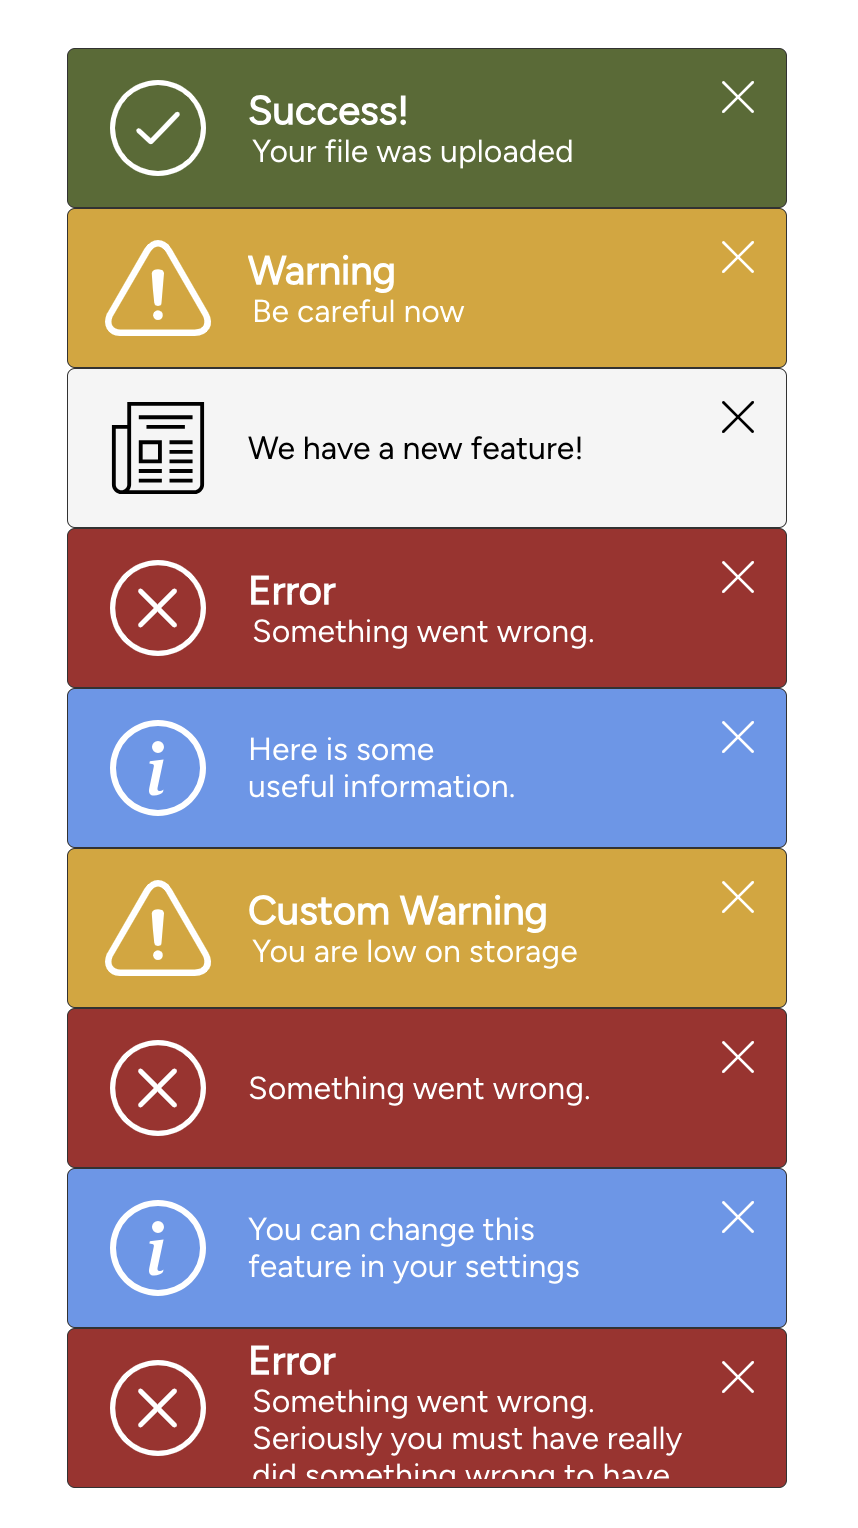
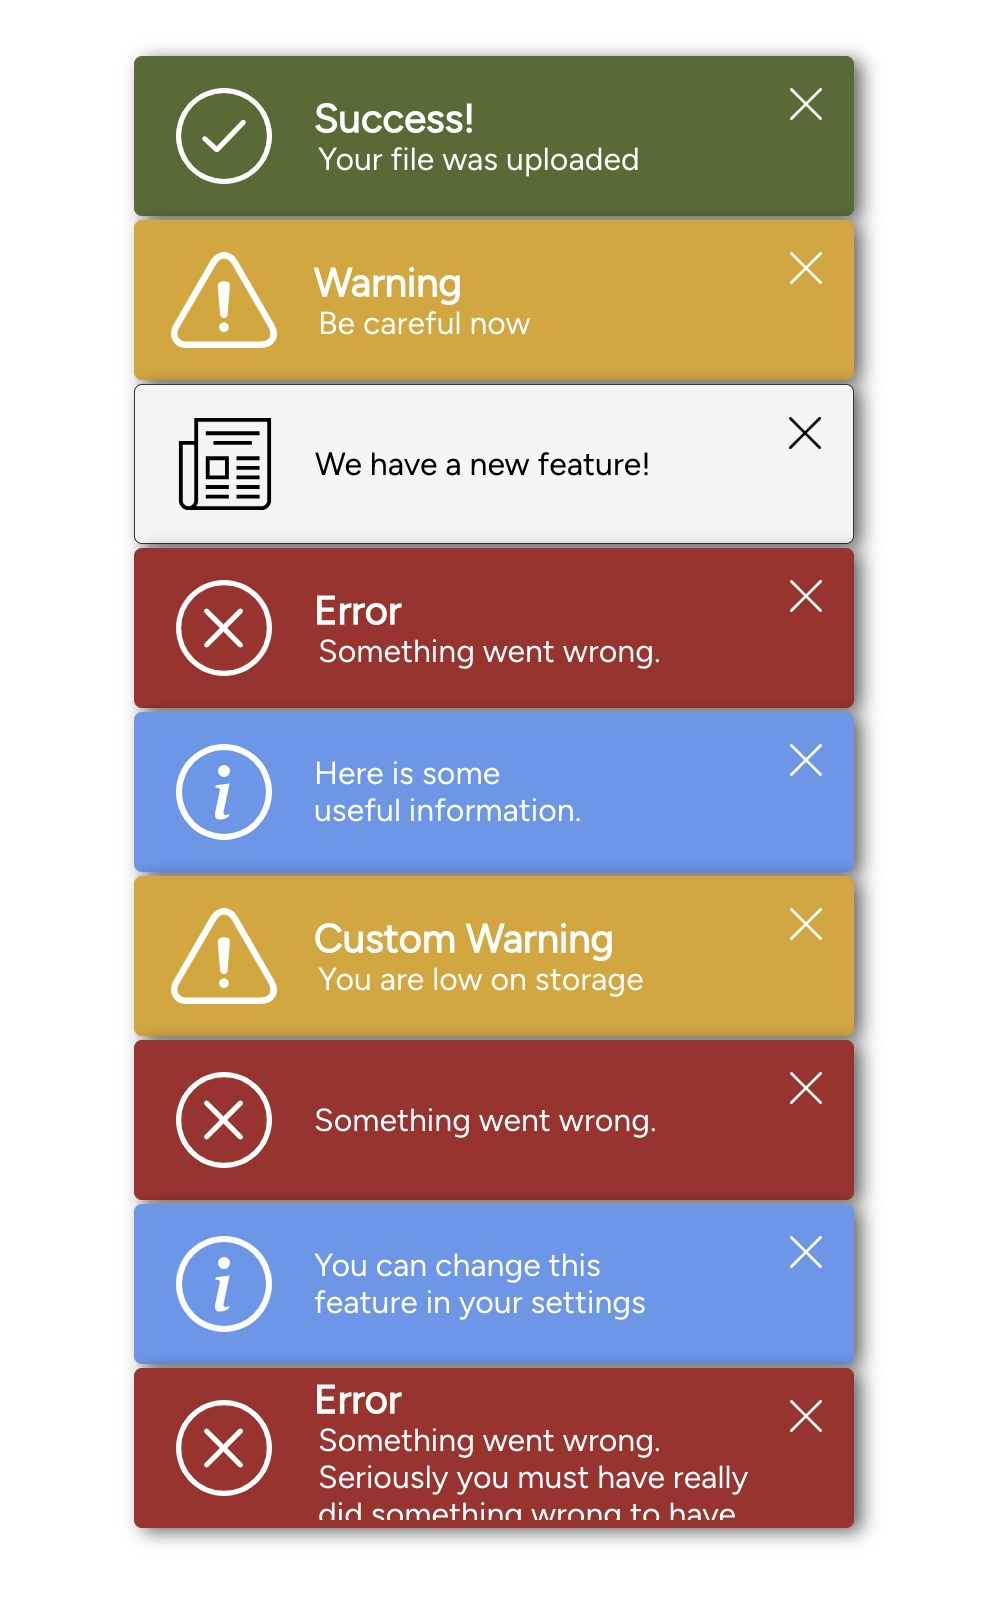
Toastify
adapted my toast component into toastify

Changed region(s): [[0.0606, 0.0308, 0.9394, 0.9843]]

diff --git a/Toastify/createToast.tsx b/Toastify/createToast.tsx
@@ -1,0 +1,49 @@
+import ToastComponent from "@/app/ui/Toast/toast";
+import { toast } from "react-toastify";
+
+/*
+ *   type - the type of message being sent (come in different color schemes)
+ *   message - the message on the toast
+ *   closeFunction - a function the closes the toast, typically used by toastify
+ *   title - optional title that overrides our default titles, leave as undefined otherwise
+ *   autoClose - toast will autoClose after the duration expire
+ *   duration - the time in ms before toast autoCloses
+ */
+function createToast(
+  type: "success" | "warning" | "error" | "info" | "news",
+  message: string,
+  title?: string,
+  autoClose = true,
+  duration = 5000
+) {
+  toast(
+    ({ closeToast }) => (
+      <ToastComponent
+        type={type}
+        message={message}
+        title={title}
+        autoClose={false}
+        closeFunction={closeToast}
+      />
+    ),
+    {
+      autoClose: autoClose ? duration : false,
+      closeOnClick: false,
+      pauseOnHover: true,
+      draggable: false,
+      hideProgressBar: true,
+      closeButton: false,
+      style: {
+        width: "max-content",
+        height: "max-content",
+        boxShadow: "none",
+        padding: "0",
+        margin: "0",
+        background: "none",
+      },
+      position: "bottom-center",
+    }
+  );
+}
+
+export { createToast };

diff --git a/Toastify/(toast)/(toast layout)/toastifyTest/someButtons.tsx b/Toastify/(toast)/(toast layout)/toastifyTest/someButtons.tsx
@@ -1,0 +1,46 @@
+"use client";
+import React, { useState, useEffect, useRef, useCallback } from "react";
+import Image from "next/image";
+import Link from "next/link";
+import Button from "@/app/ui/Buttons/Button Set 1/button";
+import { createToast } from "@/app/functions/createToast";
+
+export default function Component() {
+  return (
+    <div
+      style={{
+        display: "flex",
+        flexDirection: "column",
+        rowGap: ".6rem",
+      }}
+    >
+      <Button
+        type="primary"
+        text="Add Success Toast"
+        onClick={() => createToast("success", "A toast! Cheers!")}
+        style={{backgroundColor: "darkolivegreen"}}
+      />
+      <Button
+        type="primary"
+        text="Add Warning"
+        onClick={() => {
+          createToast(
+            "warning",
+            "This toast won't go away on its own.",
+            undefined,
+            false
+          );
+        }}
+        style={{backgroundColor: "goldenrod"}}
+      />
+      <Button
+        type="primary"
+        text="Some News"
+        onClick={() =>
+          createToast("news", "We have a new feature. Check it out!")
+        }
+        style={{backgroundColor: "grey"}}
+      />
+    </div>
+  );
+}

diff --git a/Toast/toast.tsx b/Toast/toast.tsx
@@ -12,12 +12,20 @@ import InfoIcon from "./info_icon";
 import NewsIcon from "./news_icon";
 import CloseIcon from "./close_icon";
 
+/*
+ *   type - the type of message being sent (come in different color schemes)
+ *   message - the message on the toast
+ *   closeFunction - a function the closes the toast, typically used by toastify
+ *   title - optional title that overrides our default titles, leave undefined for defaults
+ *   autoClose - toast will autoClose after the duration expire
+ *   duration - the time in ms before toast autoCloses
+ */
 interface ToastProps {
   type: "success" | "warning" | "error" | "info" | "news";
   message: string;
   closeFunction: () => void;
   title?: string;
-  persists?: boolean;
+  autoClose?: boolean;
   duration?: number;
 }
 
@@ -42,12 +50,12 @@ export default function Toast({
   message,
   closeFunction,
   title,
-  persists = true,
-  duration = 3000,
+  autoClose = true,
+  duration = 5000,
 }: ToastProps) {
   title = title === undefined ? titles[type] : title;
   useEffect(() => {
-    if (!persists) {
+    if (autoClose) {
       const timer = setTimeout(closeFunction, duration);
       return () => clearTimeout(timer);
     }

diff --git a/Toastify/(toast)/(toast layout)/toastifyTest/otherButtons.tsx b/Toastify/(toast)/(toast layout)/toastifyTest/otherButtons.tsx
@@ -1,0 +1,40 @@
+"use client";
+import React, { useState, useEffect, useRef, useCallback } from "react";
+import Image from "next/image";
+import Link from "next/link";
+import Button from "@/app/ui/Buttons/Button Set 1/button";
+import { createToast } from "@/app/functions/createToast";
+
+export default function Component() {
+  return (
+    <div
+      style={{
+        display: "flex",
+        flexDirection: "column",
+        rowGap: ".6rem",
+      }}
+    >
+      <Button
+        type="primary"
+        text="Error! Error!"
+        onClick={() => createToast("error", "You messed something up!")}
+        style={{ backgroundColor: "brown" }}
+      />
+      <Button
+        type="primary"
+        text="Add Warning"
+        onClick={() => {
+          createToast("info", "Here is some information.", undefined, false);
+        }}
+      />
+      <Button
+        type="primary"
+        text="Another Success "
+        onClick={() => {
+          createToast("success", "We succeeded again!");
+        }}
+        style={{ backgroundColor: "darkolivegreen" }}
+      />
+    </div>
+  );
+}

diff --git a/Toastify/(toast)/(toast layout)/toastifyTest/page.tsx b/Toastify/(toast)/(toast layout)/toastifyTest/page.tsx
@@ -1,0 +1,21 @@
+"use client";
+import Image from "next/image";
+import Link from "next/link";
+import { useState } from "react";
+import styles from "./page.module.css";
+import Toast from "@/app/ui/Toast/toast";
+import { cssTransition, toast, ToastContainer } from "react-toastify";
+import SomeButtons from "./someButtons";
+import OtherButtons from "./otherButtons";
+
+export default function Page() {
+  return (
+    <div className={styles.page}>
+      <SomeButtons />
+      <div
+        style={{ width: "20rem", textWrap: "balance" }}
+      >{`Here we have two entirely seperate components that send toasts to the same place`}</div>
+      <OtherButtons />
+    </div>
+  );
+}

diff --git a/Toast/toast.module.css b/Toast/toast.module.css
@@ -4,7 +4,6 @@
   --buttonWidth: 1.6rem;
   height: var(--height);
   width: var(--width);
-  border: var(--smallBorder);
   color: var(--wb);
   display: flex;
   justify-content: flex-start;
@@ -12,7 +11,9 @@
   position: relative;
   border-radius: 0.4rem;
   padding: calc(var(--height) / 20) 0;
-  margin-bottom: 0.2rem;
+  margin-bottom: calc(var(--height) / 40);
+  box-shadow: 0.4rem calc(var(--height) / 40) calc(var(--width) / 40) 0px
+    rgba(0, 0, 0, 0.6);
 }
 
 .toast.success {
@@ -32,6 +33,7 @@
 }
 
 .toast.news {
+  border: var(--smallBorder);
   background-color: var(--softBackground);
   color: var(--foreground);
 }

diff --git a/Toastify/(toast)/(toast layout)/layout.tsx b/Toastify/(toast)/(toast layout)/layout.tsx
@@ -1,0 +1,21 @@
+"use client";
+import { cssTransition, ToastContainer } from "react-toastify";
+import "@/app/globals.css";
+
+export default function ToastLayout({
+  children,
+}: Readonly<{
+  children: React.ReactNode;
+}>) {
+  const transition = cssTransition({
+    enter: "Toastify__bounce-enter--bottom-center",
+    exit: "toast-exit-custom",
+  });
+
+  return (
+    <>
+      <ToastContainer transition={transition} limit={6} />
+      {children}
+    </>
+  );
+}

diff --git a/Toastify/layout.tsx b/Toastify/layout.tsx
@@ -1,0 +1,21 @@
+"use client";
+import { cssTransition, ToastContainer } from "react-toastify";
+import "@/app/globals.css";
+
+export default function ToastLayout({
+  children,
+}: Readonly<{
+  children: React.ReactNode;
+}>) {
+  const transition = cssTransition({
+    enter: "Toastify__bounce-enter--bottom-center",
+    exit: "toast-exit-custom",
+  });
+
+  return (
+    <>
+      <ToastContainer transition={transition} limit={6} />
+      {children}
+    </>
+  );
+}

diff --git a/Toastify/(toast)/layout.tsx b/Toastify/(toast)/layout.tsx
@@ -1,0 +1,19 @@
+import type { Metadata } from "next";
+import "@/app/globals.css";
+
+export const metadata: Metadata = {
+  title: "Toast Testing",
+  description: "This layout later is for data fetching and metadata",
+};
+
+export default function BlankLayout({
+  children,
+}: Readonly<{
+  children: React.ReactNode;
+}>) {
+  return (
+    <html lang="en">
+      <body>{children}</body>
+    </html>
+  );
+}

diff --git a/Toastify/(toast)/(toast layout)/toastifyTest/page.module.css b/Toastify/(toast)/(toast layout)/toastifyTest/page.module.css
@@ -1,0 +1,8 @@
+.page {
+  display: flex;
+  width: 100vw;
+  padding-top: 4rem;
+  justify-content: center;
+  column-gap: 4rem;
+}
+
